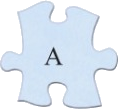
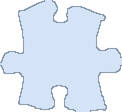
Rebuild puzzle pieces A, B, C directly from exact hole masks for 100% seamless fit

Changed region(s): [[0.0, 0.0, 1.0, 1.0], [0.3559, 0.4128, 0.5339, 0.6055]]

diff --git a/index.html b/index.html
@@ -479,18 +479,18 @@ function puzzleStep() {
     // 精確對位三個缺口中心座標與所需旋轉角（0..359）
     const pieces = [
       {
-        id:'A', img:'assets/cutout_A.png', w:118*k, h:109*k,
-        tx: BX + 129*k, ty: BY + 209.5*k, targetRot: 0,
+        id:'A', img:'assets/cutout_A.png', w:122*k, h:112*k,
+        tx: BX + 129.0*k, ty: BY + 210.0*k, targetRot: 0,
         hx: 205, hy: 374, x: 205, y: 374, rot: 0, placed: false, holeName:'左邊空白'
       },
       {
-        id:'B', img:'assets/cutout_B.png', w:86*k, h:116*k,
-        tx: BX + 223*k, ty: BY + 45*k, targetRot: 270,
+        id:'B', img:'assets/cutout_B.png', w:90*k, h:107*k,
+        tx: BX + 216.5*k, ty: BY + 46.0*k, targetRot: 270,
         hx: 380, hy: 374, x: 380, y: 374, rot: 0, placed: false, holeName:'上方空白'
       },
       {
-        id:'C', img:'assets/cutout_C.png', w:100*k, h:90*k,
-        tx: BX + 524*k, ty: BY + 304*k, targetRot: 180,
+        id:'C', img:'assets/cutout_C.png', w:98*k, h:88*k,
+        tx: BX + 525.0*k, ty: BY + 304.0*k, targetRot: 180,
         hx: 555, hy: 374, x: 555, y: 374, rot: 0, placed: false, holeName:'右下空白'
       }
     ];
@@ -517,6 +517,7 @@ function puzzleStep() {
           h += `<rect x="${(-p.w/2-6).toFixed(1)}" y="${(-p.h/2-6).toFixed(1)}" width="${(p.w+12).toFixed(1)}" height="${(p.h+12).toFixed(1)}" rx="12" fill="rgba(37,99,235,.08)" stroke="#2563eb" stroke-width="2.5" stroke-dasharray="6 4"/>`;
         }
         h += `<image href="${p.img}" x="${(-p.w/2).toFixed(1)}" y="${(-p.h/2).toFixed(1)}" width="${p.w.toFixed(1)}" height="${p.h.toFixed(1)}" preserveAspectRatio="none"/>`;
+        h += `<text x="0" y="7" font-family="Georgia, serif" font-size="22" font-weight="900" fill="${p.placed?'#15803d':'#1e293b'}" text-anchor="middle">${p.id}</text>`;
         h += `</g>`;
       });
 

diff --git a/public/index.html b/public/index.html
@@ -479,18 +479,18 @@ function puzzleStep() {
     // 精確對位三個缺口中心座標與所需旋轉角（0..359）
     const pieces = [
       {
-        id:'A', img:'assets/cutout_A.png', w:118*k, h:109*k,
-        tx: BX + 129*k, ty: BY + 209.5*k, targetRot: 0,
+        id:'A', img:'assets/cutout_A.png', w:122*k, h:112*k,
+        tx: BX + 129.0*k, ty: BY + 210.0*k, targetRot: 0,
         hx: 205, hy: 374, x: 205, y: 374, rot: 0, placed: false, holeName:'左邊空白'
       },
       {
-        id:'B', img:'assets/cutout_B.png', w:86*k, h:116*k,
-        tx: BX + 223*k, ty: BY + 45*k, targetRot: 270,
+        id:'B', img:'assets/cutout_B.png', w:90*k, h:107*k,
+        tx: BX + 216.5*k, ty: BY + 46.0*k, targetRot: 270,
         hx: 380, hy: 374, x: 380, y: 374, rot: 0, placed: false, holeName:'上方空白'
       },
       {
-        id:'C', img:'assets/cutout_C.png', w:100*k, h:90*k,
-        tx: BX + 524*k, ty: BY + 304*k, targetRot: 180,
+        id:'C', img:'assets/cutout_C.png', w:98*k, h:88*k,
+        tx: BX + 525.0*k, ty: BY + 304.0*k, targetRot: 180,
         hx: 555, hy: 374, x: 555, y: 374, rot: 0, placed: false, holeName:'右下空白'
       }
     ];
@@ -517,6 +517,7 @@ function puzzleStep() {
           h += `<rect x="${(-p.w/2-6).toFixed(1)}" y="${(-p.h/2-6).toFixed(1)}" width="${(p.w+12).toFixed(1)}" height="${(p.h+12).toFixed(1)}" rx="12" fill="rgba(37,99,235,.08)" stroke="#2563eb" stroke-width="2.5" stroke-dasharray="6 4"/>`;
         }
         h += `<image href="${p.img}" x="${(-p.w/2).toFixed(1)}" y="${(-p.h/2).toFixed(1)}" width="${p.w.toFixed(1)}" height="${p.h.toFixed(1)}" preserveAspectRatio="none"/>`;
+        h += `<text x="0" y="7" font-family="Georgia, serif" font-size="22" font-weight="900" fill="${p.placed?'#15803d':'#1e293b'}" text-anchor="middle">${p.id}</text>`;
         h += `</g>`;
       });
 

diff --git a/public/teacher.html b/public/teacher.html
@@ -479,18 +479,18 @@ function puzzleStep() {
     // 精確對位三個缺口中心座標與所需旋轉角（0..359）
     const pieces = [
       {
-        id:'A', img:'assets/cutout_A.png', w:118*k, h:109*k,
-        tx: BX + 129*k, ty: BY + 209.5*k, targetRot: 0,
+        id:'A', img:'assets/cutout_A.png', w:122*k, h:112*k,
+        tx: BX + 129.0*k, ty: BY + 210.0*k, targetRot: 0,
         hx: 205, hy: 374, x: 205, y: 374, rot: 0, placed: false, holeName:'左邊空白'
       },
       {
-        id:'B', img:'assets/cutout_B.png', w:86*k, h:116*k,
-        tx: BX + 223*k, ty: BY + 45*k, targetRot: 270,
+        id:'B', img:'assets/cutout_B.png', w:90*k, h:107*k,
+        tx: BX + 216.5*k, ty: BY + 46.0*k, targetRot: 270,
         hx: 380, hy: 374, x: 380, y: 374, rot: 0, placed: false, holeName:'上方空白'
       },
       {
-        id:'C', img:'assets/cutout_C.png', w:100*k, h:90*k,
-        tx: BX + 524*k, ty: BY + 304*k, targetRot: 180,
+        id:'C', img:'assets/cutout_C.png', w:98*k, h:88*k,
+        tx: BX + 525.0*k, ty: BY + 304.0*k, targetRot: 180,
         hx: 555, hy: 374, x: 555, y: 374, rot: 0, placed: false, holeName:'右下空白'
       }
     ];
@@ -517,6 +517,7 @@ function puzzleStep() {
           h += `<rect x="${(-p.w/2-6).toFixed(1)}" y="${(-p.h/2-6).toFixed(1)}" width="${(p.w+12).toFixed(1)}" height="${(p.h+12).toFixed(1)}" rx="12" fill="rgba(37,99,235,.08)" stroke="#2563eb" stroke-width="2.5" stroke-dasharray="6 4"/>`;
         }
         h += `<image href="${p.img}" x="${(-p.w/2).toFixed(1)}" y="${(-p.h/2).toFixed(1)}" width="${p.w.toFixed(1)}" height="${p.h.toFixed(1)}" preserveAspectRatio="none"/>`;
+        h += `<text x="0" y="7" font-family="Georgia, serif" font-size="22" font-weight="900" fill="${p.placed?'#15803d':'#1e293b'}" text-anchor="middle">${p.id}</text>`;
         h += `</g>`;
       });
 

diff --git a/teacher.html b/teacher.html
@@ -479,18 +479,18 @@ function puzzleStep() {
     // 精確對位三個缺口中心座標與所需旋轉角（0..359）
     const pieces = [
       {
-        id:'A', img:'assets/cutout_A.png', w:118*k, h:109*k,
-        tx: BX + 129*k, ty: BY + 209.5*k, targetRot: 0,
+        id:'A', img:'assets/cutout_A.png', w:122*k, h:112*k,
+        tx: BX + 129.0*k, ty: BY + 210.0*k, targetRot: 0,
         hx: 205, hy: 374, x: 205, y: 374, rot: 0, placed: false, holeName:'左邊空白'
       },
       {
-        id:'B', img:'assets/cutout_B.png', w:86*k, h:116*k,
-        tx: BX + 223*k, ty: BY + 45*k, targetRot: 270,
+        id:'B', img:'assets/cutout_B.png', w:90*k, h:107*k,
+        tx: BX + 216.5*k, ty: BY + 46.0*k, targetRot: 270,
         hx: 380, hy: 374, x: 380, y: 374, rot: 0, placed: false, holeName:'上方空白'
       },
       {
-        id:'C', img:'assets/cutout_C.png', w:100*k, h:90*k,
-        tx: BX + 524*k, ty: BY + 304*k, targetRot: 180,
+        id:'C', img:'assets/cutout_C.png', w:98*k, h:88*k,
+        tx: BX + 525.0*k, ty: BY + 304.0*k, targetRot: 180,
         hx: 555, hy: 374, x: 555, y: 374, rot: 0, placed: false, holeName:'右下空白'
       }
     ];
@@ -517,6 +517,7 @@ function puzzleStep() {
           h += `<rect x="${(-p.w/2-6).toFixed(1)}" y="${(-p.h/2-6).toFixed(1)}" width="${(p.w+12).toFixed(1)}" height="${(p.h+12).toFixed(1)}" rx="12" fill="rgba(37,99,235,.08)" stroke="#2563eb" stroke-width="2.5" stroke-dasharray="6 4"/>`;
         }
         h += `<image href="${p.img}" x="${(-p.w/2).toFixed(1)}" y="${(-p.h/2).toFixed(1)}" width="${p.w.toFixed(1)}" height="${p.h.toFixed(1)}" preserveAspectRatio="none"/>`;
+        h += `<text x="0" y="7" font-family="Georgia, serif" font-size="22" font-weight="900" fill="${p.placed?'#15803d':'#1e293b'}" text-anchor="middle">${p.id}</text>`;
         h += `</g>`;
       });
 
